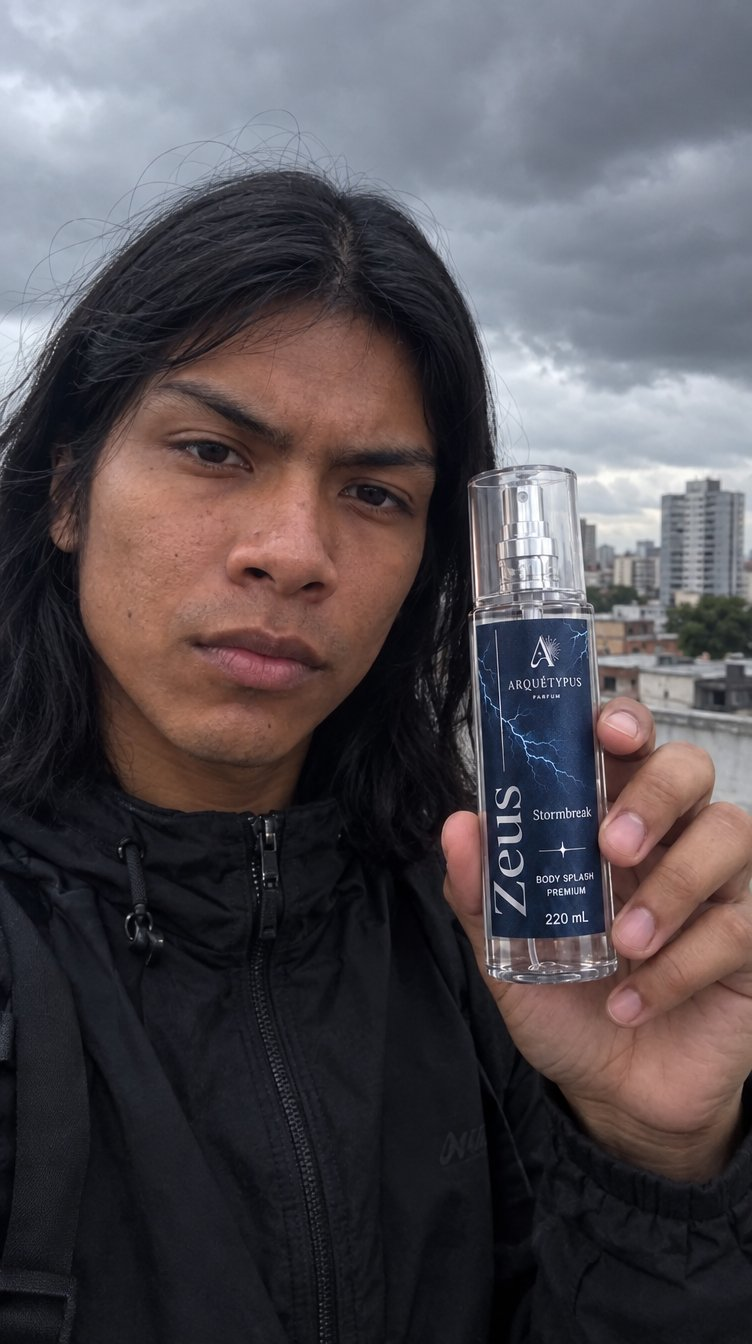
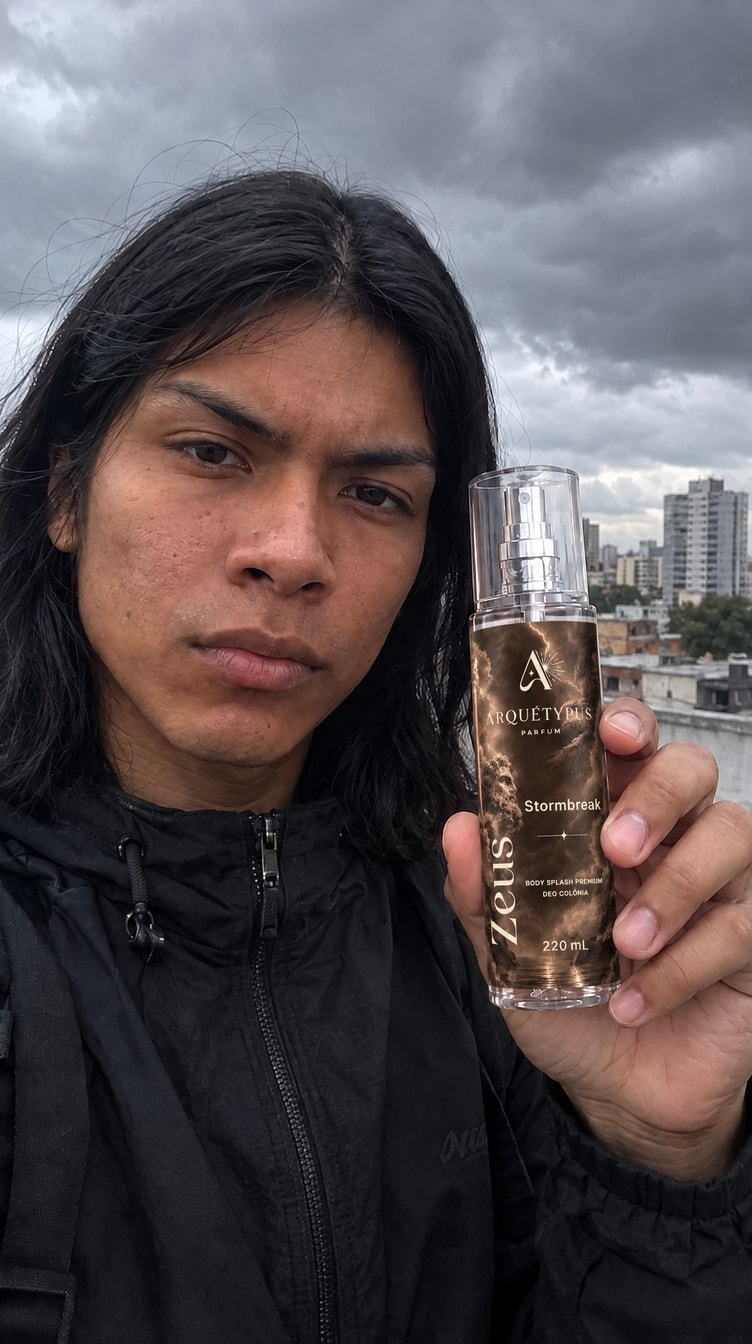
Implementando imagens dos arquétipos.

diff --git a/src/pages/HomePage.tsx b/src/pages/HomePage.tsx
@@ -794,7 +794,7 @@ export function HomePage() {
             className="scroll-pad no-scrollbar mt-8 flex snap-x snap-mandatory gap-4 overflow-x-auto px-4 pb-2 md:px-10 lg:mx-auto lg:mt-12 lg:grid lg:max-w-[88rem] lg:grid-cols-5 lg:gap-5 lg:overflow-visible lg:pt-2 lg:after:hidden"
           >
             {/* mesma linguagem dos pôsteres de Coleções (classes .segmento-*): fundo noite, aro latão, filete
-                interno. Texto alinhado à esquerda: no topo as três palavras da família; embaixo nome,
+                interno. No topo as três palavras da família, centradas numa linha; embaixo, à esquerda, nome,
                 descrição e CTA (out/2026 — os nomes dos arquétipos saíram do card) */}
             {FAMILIES.map((f) => (
               <button
@@ -806,7 +806,7 @@ export function HomePage() {
                   setCatalogoFamilia(f.nome)
                   requestAnimationFrame(() => requestAnimationFrame(() => scrollToId('catalogo')))
                 }}
-                className="segmento no-press relative isolate block aspect-[3/4] w-[74%] shrink-0 cursor-pointer snap-start overflow-hidden rounded-2xl bg-noite text-left ring-1 ring-latao/40 sm:w-[44%] lg:w-auto"
+                className="segmento no-press @container relative isolate block aspect-[3/4] w-[74%] shrink-0 cursor-pointer snap-start overflow-hidden rounded-2xl bg-noite text-left ring-1 ring-latao/40 sm:w-[44%] lg:w-auto"
               >
                 <div className="segmento-foto absolute inset-0">
                   <img loading="lazy" src={familyFoto(f.slug)?.src} srcSet={familyFoto(f.slug)?.srcSet} sizes="(min-width: 1024px) 20vw, 80vw" alt="" className="h-full w-full object-cover" />
@@ -821,7 +821,9 @@ export function HomePage() {
                   }}
                 />
                 <span aria-hidden className="segmento-moldura pointer-events-none absolute inset-2.5 rounded-[calc(var(--radius-2xl)-0.5rem)] border border-latao/35" />
-                <span className="absolute inset-x-0 top-5 px-5 font-label text-[9px] tracking-[0.22em] text-balance text-papel-inv/75 uppercase">
+                {/* as três palavras sempre numa linha, centradas (out/2026): a fonte acompanha a largura do card
+                    (cqi, o card é @container) com teto de 9px — no lg de 5 colunas o card fica estreito */}
+                <span className="absolute inset-x-0 top-5 px-4 text-center font-label text-[clamp(6px,calc((100cqi-2rem)/24),9px)] tracking-[0.18em] whitespace-nowrap text-papel-inv/75 uppercase">
                   {f.attrs.join(' · ')}
                 </span>
                 <span className="segmento-texto absolute inset-x-0 bottom-5 px-5 text-papel-inv lg:bottom-6">

diff --git a/src/components/FeaturedCarousel.tsx b/src/components/FeaturedCarousel.tsx
@@ -22,14 +22,14 @@ import { Avaliacao } from '@/components/ui/Avaliacao'
 import { CONDICOES, parcela, precoPix } from '@/data/empresa'
 
 /** Banners do "Arquétipo em destaque", na ordem. `bg` é o fundo do card, na cor da foto: burgundy da marca
- *  (Fênix), azul-petróleo do mar (Sereia) e bege escurecido de céu nublado (Zeus). Hex, não var(): a cor anima
+ *  (Fênix), azul-petróleo do mar (Sereia) e bronze escurecido da névoa dourada (Zeus, out/2026: frasco novo em bronze). Hex, não var(): a cor anima
  *  como propriedade registrada. `pos` é o recorte vertical da foto 9:16 no tablet (onde fica o frasco); `sobe` é
  *  quanto a foto sobe no celular (margem negativa, % da largura) pra o frasco ficar acima do texto.
  *  Todo o texto vem de data/archetypes.ts. */
 const SLIDES = [
   { id: 'fenix', img: foto(featuredFenix), imgDesktop: foto(featuredFenixDesktop), bg: '#540010', pos: '50% 20%', sobe: '10.5%' },
   { id: 'sereia', img: foto(featuredSereia), imgDesktop: foto(featuredSereiaDesktop), bg: '#0d4350', pos: '50% 12%', sobe: '10.5%' },
-  { id: 'zeus', img: foto(featuredZeus), imgDesktop: foto(featuredZeusDesktop), bg: '#4f483e', pos: '50% 12%', sobe: '10.5%' },
+  { id: 'zeus', img: foto(featuredZeus), imgDesktop: foto(featuredZeusDesktop), bg: '#4f3a29', pos: '50% 12%', sobe: '10.5%' },
 ] as const
 
 const AUTOPLAY_MS = 4000
@@ -193,8 +193,15 @@ export function FeaturedCarousel() {
                     </span>
                     <Preco a={a} tom="escuro" className="mt-1.5 font-display text-3xl leading-none" />
                   </div>
-                  <span className="max-w-[12ch] pb-0.5 text-right font-label text-[9px] tracking-widest uppercase" style={{ color: LATAO_CLARO }}>
-                    {a.fam}
+                  {/* família sempre em 2 linhas, quebrando depois do "&" ("Ambarados &" / "Adocicados") — com
+                      largura fixa em ch, nomes longos caíam em 3 linhas */}
+                  <span className="pb-0.5 text-right font-label text-[9px] tracking-widest whitespace-nowrap uppercase" style={{ color: LATAO_CLARO }}>
+                    {a.fam.split(/\s*&\s*/).map((parte, i, partes) => (
+                      <span key={parte} className="block">
+                        {parte}
+                        {i < partes.length - 1 && ' &'}
+                      </span>
+                    ))}
                   </span>
                 </div>
                 {/* regra 7: Pix e parcelamento junto do preço — mesma conta do ProductPurchase */}

diff --git a/src/components/boutique/BoutiqueMore.tsx b/src/components/boutique/BoutiqueMore.tsx
@@ -123,16 +123,18 @@ export function CommunityBoutique() {
 
   // 1ª seção depois do hero (sobe por cima dele). Cada experiência é um "vídeo" (2:3 no celular) com o produto num cartão
   // à parte, sobreposto à base do vídeo (metade dentro, metade fora) — o vídeo é a prova, o cartão é a compra.
-  // Desktop: a foto acompanha a altura disponível, com teto de 34rem. A largura tem piso de 300px:
+  // Desktop: a foto acompanha a altura disponível, entre 27rem e 34rem. A largura tem piso de 300px:
   // em notebooks baixos, reduzir as duas medidas em 2:3 cortava nomes e comprimia o preço contra a miniatura.
-  // Abaixo desse piso, só a foto muda de proporção; os dados do produto conservam espaço para leitura.
+  // Piso de 27rem na altura (out/2026): em 1366×768 a conta dava ~13rem e a foto virava uma faixa deitada, cortando
+  // a pessoa e o frasco. Com o piso o card fica perto de 2:3 (300×432) — exceção aceita pelo usuário à regra da
+  // altura: em notebook baixo a seção pode passar um pouco da tela.
   // Celular: só a largura manda — min(66vw, 270px) × --ugc-escala (1.155, out/2026). Exceção pedida (out/2026) à
   // regra da altura: em celular baixo o card continua grande e proporcional, mesmo que a seção passe da tela.
   // Hoje são fotos (UGC_IMG); quando os vídeos chegarem, trocar o <img> por <video> mudo em loop.
   return (
     <section
       id="comunidade"
-      className="relative z-20 rounded-t-2xl bg-papel pt-4 pb-5 [--ugc-w:min(66vw*var(--ugc-escala),270px*var(--ugc-escala))] [--ugc-escala:1.155] lg:pt-4.5 lg:pb-5 lg:[--ugc-h:clamp(13rem,94svh-25.5rem,34rem)] lg:[--ugc-w:max(300px,var(--ugc-h)*2/3)]"
+      className="relative z-20 rounded-t-2xl bg-papel pt-4 pb-5 [--ugc-w:min(66vw*var(--ugc-escala),270px*var(--ugc-escala))] [--ugc-escala:1.155] lg:pt-4.5 lg:pb-5 lg:[--ugc-h:clamp(27rem,94svh-25.5rem,34rem)] lg:[--ugc-w:max(300px,var(--ugc-h)*2/3)]"
       style={{
         // degrau no fim: esta seção fica por cima da seguinte e projeta sombra nela, com filete latão na borda
         boxShadow: '0 14px 26px -12px rgba(40,46,41,0.3), 0 4px 8px -4px rgba(40,46,41,0.2)',

diff --git a/src/components/ProductPurchase.tsx b/src/components/ProductPurchase.tsx
@@ -7,7 +7,7 @@ import { Eyebrow } from '@/components/ui/Eyebrow'
 import { ProductGallery } from '@/components/ProductGallery'
 import { Sobrenome } from '@/components/ui/Sobrenome'
 import { Preco } from '@/components/ui/Preco'
-import { PDP_FRASCO_FOTO, PDP_LIFESTYLE_FOTO } from '@/data/productMedia'
+import { PDP_ARQUETIPO_FOTO, PDP_FRASCO_FOTO, PDP_LIFESTYLE_FOTO, PDP_NOTAS_FOTO, PDP_REPRESENTACAO_FOTO } from '@/data/productMedia'
 import { CONDICOES, parcela, precoPix } from '@/data/empresa'
 
 export const brl = (v: number) => v.toLocaleString('pt-BR', { style: 'currency', currency: 'BRL' })
@@ -99,6 +99,18 @@ export function ProductPurchase({ a, fullPageTo }: { a: Archetype; fullPageTo?: 
               {
                 src: PDP_FRASCO_FOTO[a.id], requisito: `FOTO · 1:1 · 1200×1200 · FRASCO · ${a.nome.toUpperCase()}`,
                 alt: `Frasco do ${produtoNome(a)}, ${a.vol}`,
+              },
+              {
+                src: PDP_NOTAS_FOTO[a.id], requisito: `FOTO · 1:1 · 1200×1200 · NOTAS · ${a.nome.toUpperCase()}`,
+                alt: `${produtoNome(a)} entre os ingredientes das suas notas olfativas`,
+              },
+              {
+                src: PDP_ARQUETIPO_FOTO[a.id], requisito: `FOTO · 1:1 · 1200×1200 · ARQUÉTIPO · ${a.nome.toUpperCase()}`,
+                alt: `${produtoNome(a)} com a figura do arquétipo ${a.nome} ao fundo`,
+              },
+              {
+                src: PDP_REPRESENTACAO_FOTO[a.id], requisito: `FOTO · 1:1 · 1200×1200 · REPRESENTAÇÃO · ${a.nome.toUpperCase()}`,
+                alt: `${produtoNome(a)} com a representação do arquétipo ${a.nome} ao fundo`,
               },
               {
                 src: PDP_LIFESTYLE_FOTO[a.id], requisito: `FOTO · 1:1 · 1200×1200 · LIFESTYLE · ${a.nome.toUpperCase()}`,

diff --git a/src/data/productMedia.ts b/src/data/productMedia.ts
@@ -4,5 +4,10 @@ import { fotosPorId, urls, type FotoBruta } from '@/lib/foto'
 // larguras); SEO e quem precisa de uma URL só usam `PDP_FRASCO`/`PDP_LIFESTYLE` (maior versão).
 export const PDP_FRASCO_FOTO = fotosPorId(import.meta.glob<FotoBruta>('@/assets/fotos/pdp-frasco/*.jpg', { eager: true, import: 'default', query: '?responsiva' }))
 export const PDP_LIFESTYLE_FOTO = fotosPorId(import.meta.glob<FotoBruta>('@/assets/fotos/pdp-lifestyle/*.jpg', { eager: true, import: 'default', query: '?responsiva' }))
+// Fotos extras da galeria (out/2026, geradas por IA no Higgsfield, GPT Image 2.5): notas olfativas em volta do frasco,
+// o arquétipo ao fundo e a representação do arquétipo de corpo inteiro. Arquétipo sem foto na pasta só não ganha o slide.
+export const PDP_NOTAS_FOTO = fotosPorId(import.meta.glob<FotoBruta>('@/assets/fotos/pdp-notas/*.jpg', { eager: true, import: 'default', query: '?responsiva' }))
+export const PDP_ARQUETIPO_FOTO = fotosPorId(import.meta.glob<FotoBruta>('@/assets/fotos/pdp-arquetipo/*.jpg', { eager: true, import: 'default', query: '?responsiva' }))
+export const PDP_REPRESENTACAO_FOTO = fotosPorId(import.meta.glob<FotoBruta>('@/assets/fotos/pdp-representacao/*.jpg', { eager: true, import: 'default', query: '?responsiva' }))
 export const PDP_FRASCO = urls(PDP_FRASCO_FOTO)
 export const PDP_LIFESTYLE = urls(PDP_LIFESTYLE_FOTO)

diff --git a/src/components/directions/Cinema.tsx b/src/components/directions/Cinema.tsx
@@ -73,10 +73,16 @@ export function HeroCinema() {
     // Mesmo commit: CSS é habilitado, playback é solicitado e o relógio começa.
     // Falha de autoplay mantém o poster, sem interromper a navegação do carrossel.
     const video = videoRef.current
-    void video?.play().catch(() => {})
+    // React só liga a propriedade `muted`, não o atributo — o Safari do iPhone confere o atributo pra liberar o autoplay
+    if (video) video.defaultMuted = true
+    // iPhone em Modo de Pouca Energia (e Android em economia de dados) recusa autoplay: o poster fica e o vídeo
+    // tenta de novo no 1º toque na página
+    const tentarDeNovo = () => void video?.play().catch(() => {})
+    void video?.play().catch(() => window.addEventListener('pointerdown', tentarDeNovo, { once: true }))
     const timer = setTimeout(next, duration)
     return () => {
       clearTimeout(timer)
+      window.removeEventListener('pointerdown', tentarDeNovo)
       video?.pause()
     }
   }, [current, next, duration, startup.started, esperandoVideo])
@@ -171,6 +177,7 @@ export function HeroCinema() {
               src={s.video}
               poster={s.img}
               muted
+              autoPlay
               playsInline
               preload="auto"
               aria-hidden

diff --git a/src/components/Drawer.tsx b/src/components/Drawer.tsx
@@ -1,6 +1,8 @@
 import { useEffect, useRef } from 'react'
 import { Link } from 'react-router-dom'
-import wordmarkPreto from '@/assets/brand/wordmark-preto.png'
+// só o emblema (o "A" com raios) no topo do menu, em tinta como o wordmark que estava aqui (out/2026) — recorte de
+// logo-dourado.png recolorido
+import emblemaPreto from '@/assets/brand/emblema-preto.png'
 
 interface DrawerLink {
   label: string
@@ -97,7 +99,7 @@ export function Drawer({
       >
         {/* topo com a mesma altura e o mesmo filete dourado do header */}
         <div className="relative flex h-14 shrink-0 items-center justify-between px-5">
-          <img loading="lazy" src={wordmarkPreto} alt="Arquétypus" className="logo-tinta h-9 w-auto" />
+          <img loading="lazy" src={emblemaPreto} alt="Arquétypus" className="logo-tinta size-9" />
           <button ref={closeRef} type="button" aria-label="Fechar menu" onClick={onClose} className="-mr-2 grid size-10 cursor-pointer place-items-center">
             <svg aria-hidden viewBox="0 0 24 24" fill="none" stroke="currentColor" strokeWidth={1.3} strokeLinecap="round" className="size-[18px]">
               <path d="M6 6l12 12M18 6 6 18" />

diff --git a/CLAUDE.md b/CLAUDE.md
@@ -175,7 +175,18 @@ decisão de produto já tomada:
   (`pdp-frasco/`), 2ª a pessoa com o frasco (`pdp-lifestyle/`), ambas
   recorte 1:1 das fotos 9:16, lidas por `import.meta.glob` (arquivo = id do
   arquétipo; pra mais fotos, nova pasta e mais uma entrada em `slides`).
-  `miniaturas/` são recortes do frasco pro product tag da comunidade. As versões desktop do
+  `miniaturas/` são recortes do frasco pro product tag da comunidade.
+  **Galeria da PDP com 5 fotos (out/2026):** frasco → notas (`pdp-notas/`) → arquétipo
+  ao fundo (`pdp-arquetipo/`) → representação do arquétipo de corpo inteiro
+  (`pdp-representacao/`) → pessoa com o frasco. As 3 do meio são geradas por IA
+  (Higgsfield, GPT Image 2.5, 1200×1200), com o ícone original (`public/icon-512.png`
+  recolorido na cor do rótulo) como referência pra não distorcer o emblema. Arquétipo
+  sem arquivo na pasta só não ganha o slide. Feitos: Afrodite, Imperatriz, Cleópatra, Fada,
+  Sereia, Zeus, Guerreiro, Imperador, Fênix (os 9; Fênix com duas pessoas, por ser unissex). Desde out/2026 em qualidade média (custo).
+  **Zeus trocou de frasco (out/2026):** rótulo bronze/sépia com nuvens, rosto de Zeus e águia, texto
+  creme e "DEO COLÔNIA" (referência: lab-fabio.vercel.app/arquetypus-lp, `zeus-criativo.png`). Todas
+  as fotos do Zeus (catálogo, comunidade, destaque, PDP, miniatura) foram refeitas com IA trocando o
+  frasco azul pelo novo; o card do destaque passou a `#4f3a29`. As versões desktop do
   hero de Afrodite/Guerreiro (`hero/*-desktop.jpg`) são a foto da designer
   expandida pra 16:9 com IA (Higgsfield, FLUX.2 Pro Outpaint) — as laterais
   foram geradas; o frasco e a pessoa são os pixels originais.
@@ -384,7 +395,9 @@ decisão de produto já tomada:
   reunião, out/2026) — só o hero da home cobre 100%. Seção com muito conteúdo
   vira trilho horizontal no celular ou tem altura presa à tela (`svh`).
   Exceção: comunidade/UGC no celular — cards grandes pela largura mesmo que a
-  seção passe da tela em celular baixo (pedido de out/2026).
+  seção passe da tela em celular baixo (pedido de out/2026). No desktop a foto
+  do card tem piso de 27rem de altura (notebook 1366×768 achatava a foto) — lá
+  a seção também pode passar um pouco da tela.
 - **Cantos: uma escala só.** Usar `rounded-sm…3xl` (tokens `--radius-*`,
   ajustados no estilo Elegant em `index.css`), nunca raio em px solto;
   `rounded-full` só pra pílula/círculo.
